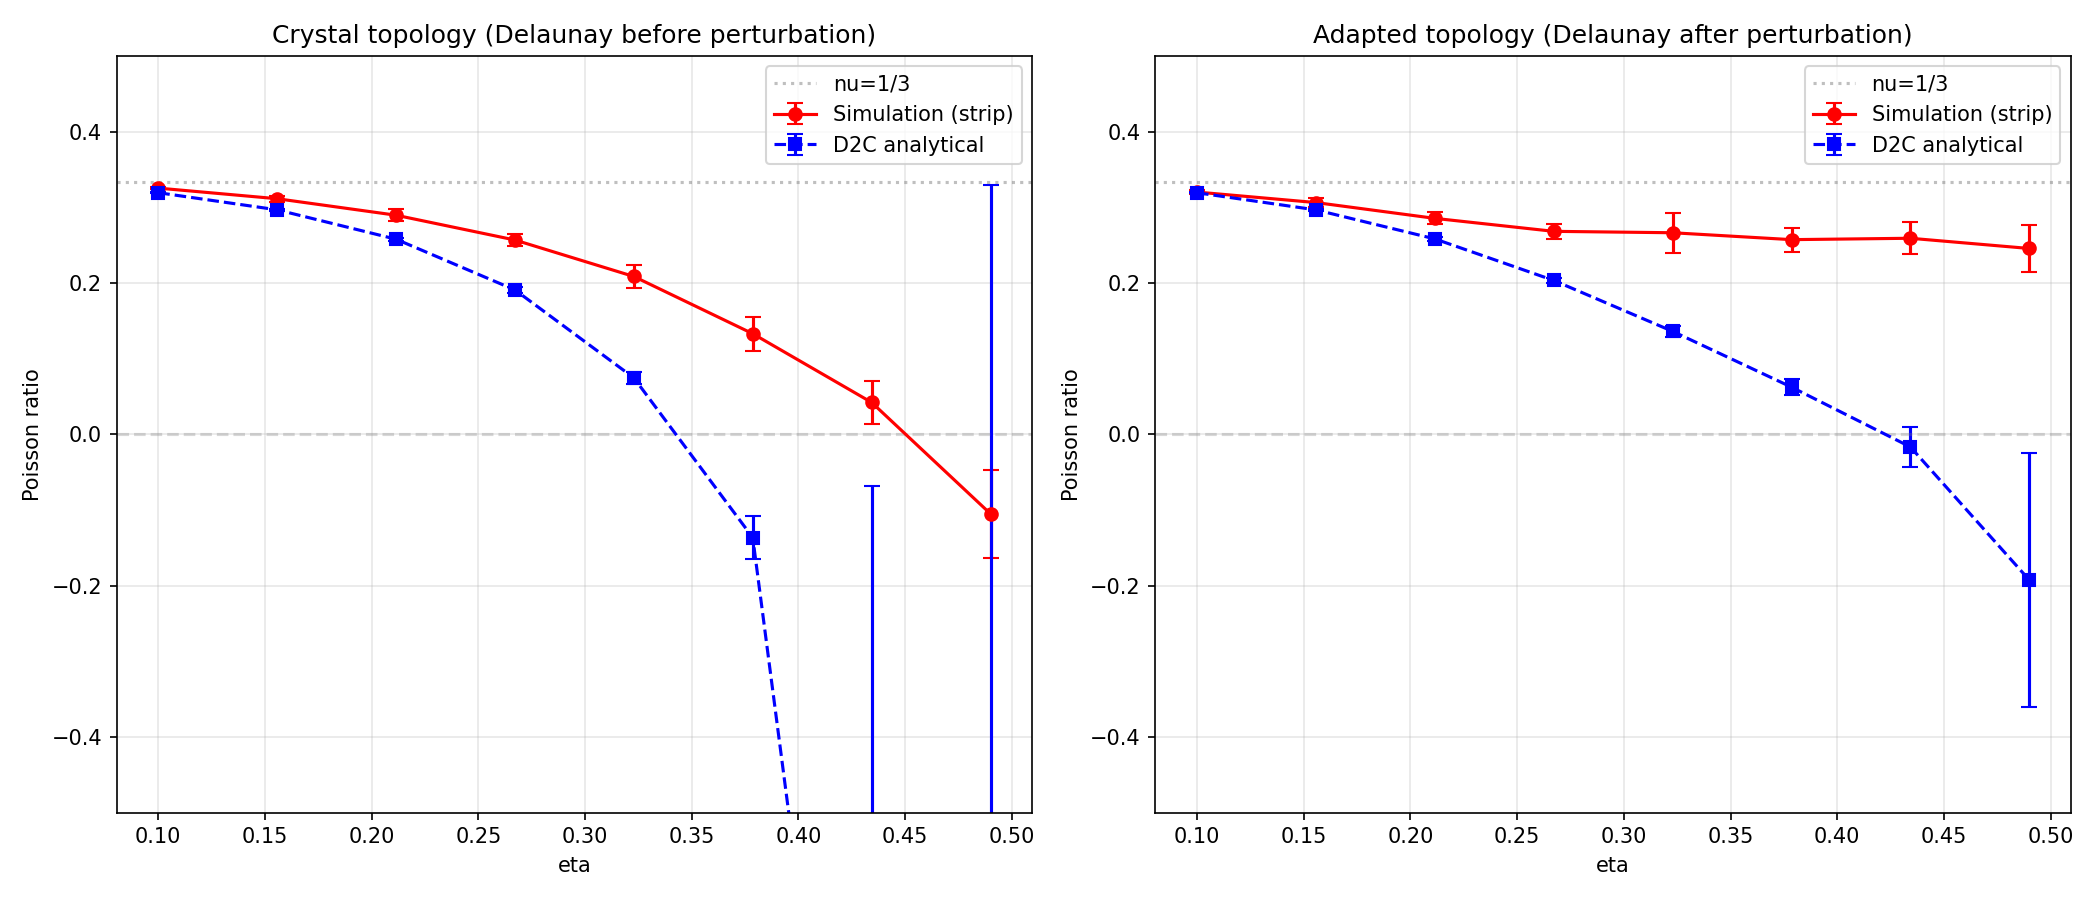
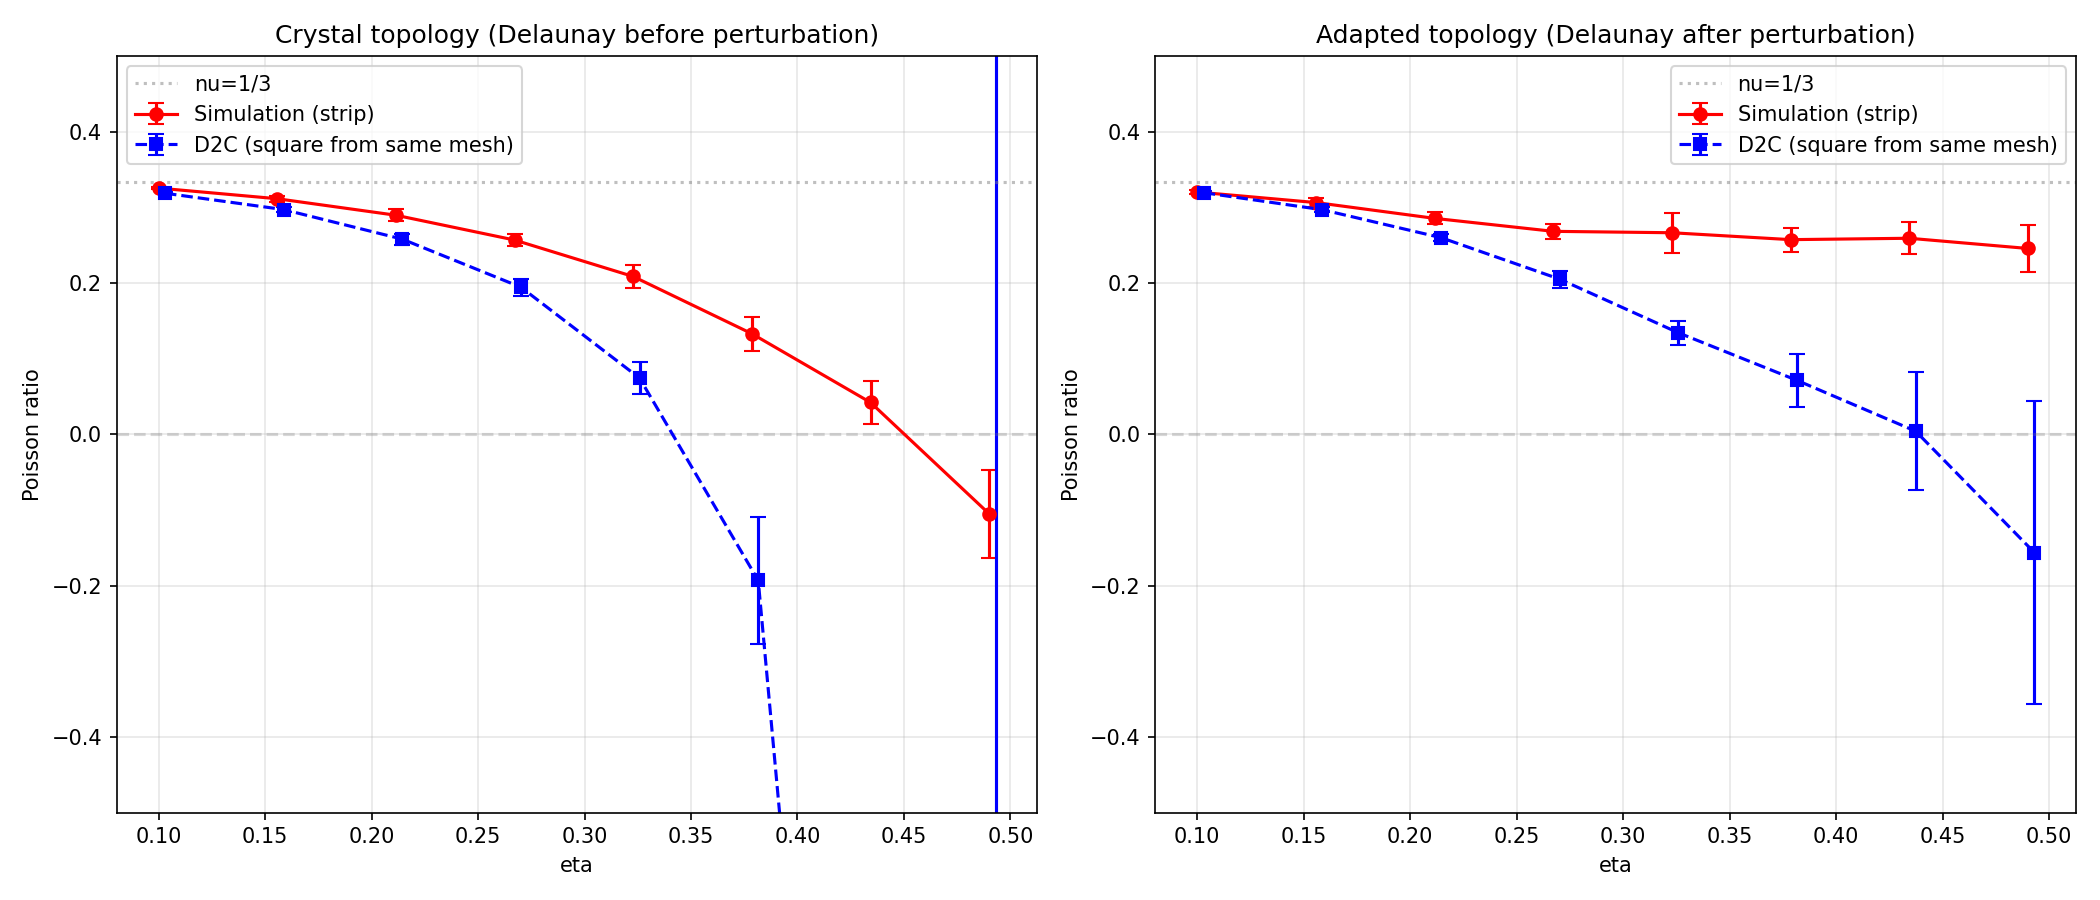
Run D2C on square sub-region of same strip used by simulation
Now both simulation and D2C use the identical mesh/vertices/perturbation.
D2C is computed on the [-6,6]^2 square cut from the strip center.
Results confirm the discrepancy is in the D2C theory, not sampling:
- Crystal eta=0.43: sim=+0.04, D2C=-1.90
- Adapted eta=0.49: sim=+0.25, D2C=-0.16

https://claude.ai/code/session_012BCNAgQJJpX3KMYRzgV7Uy

diff --git a/benchmarking/run_sim_vs_d2c.py b/benchmarking/run_sim_vs_d2c.py
@@ -1,10 +1,12 @@
 """
-Ground-truth comparison: spring network simulation vs D2C analytical calculation.
+Ground-truth comparison: spring simulation vs D2C analytical.
+
+Key change from v1: D2C is computed on a SQUARE sub-region cut from the
+exact same strip triangulation used by the simulation. This ensures
+identical mesh, vertices, edges, and perturbation pattern.
 
 Strip test: apply uniaxial strain, minimize elastic energy (L-BFGS-B),
 measure Poisson ratio from transverse contraction in the middle.
-
-Both pre-perturbation (crystal topology) and post-perturbation (adapted topology).
 """
 import sys, os, time
 sys.path.insert(0, os.path.join(os.path.dirname(__file__), '..'))
@@ -16,6 +18,7 @@ import matplotlib
 matplotlib.use('Agg')
 import matplotlib.pyplot as plt
 import Disc_2_Cont_optimized as D2C
+import copy
 
 
 # =========================================================================
@@ -74,6 +77,23 @@ def gen_perturbed_then_delaunay(size, eta):
     DM.all_simplices = DM.simplices
     DM.simplices = DM.simplices[np.where(goods)]
     return DM
+
+
+def extract_square_region(DT, half_side):
+    """Extract a square sub-region from a triangulation for D2C analysis.
+
+    Returns a new triangulation-like object containing only simplices
+    whose centroids fall within [-half_side, half_side]^2.
+    Same points array (shared vertices), just fewer simplices.
+    """
+    centroids = np.mean(DT.points[DT.simplices], axis=1)
+    in_square = ((np.abs(centroids[:,0]) <= half_side) &
+                 (np.abs(centroids[:,1]) <= half_side))
+
+    sub = copy.copy(DT)
+    sub.all_simplices = DT.simplices
+    sub.simplices = DT.simplices[np.where(in_square)]
+    return sub
 
 
 # =========================================================================
@@ -190,18 +210,17 @@ def simulate_poisson(DT, strain=0.01):
 # Main comparison
 # =========================================================================
 
-strip_size = (20, 6)    # long strip for simulation
-d2c_size   = (20, 20)   # square for D2C analytical
+strip_size = (20, 6)     # long strip for simulation
+square_half = 6.0        # D2C square = [-6,6]^2 cut from the strip center
 etas = np.linspace(0.1, 0.49, 8)
-n_sim = 10
-n_d2c = 20
+n_trials = 10
 strain = 0.01
 
 print("=" * 70)
-print("  Spring simulation vs D2C analytical: Poisson ratio comparison")
+print("  Spring simulation vs D2C (same mesh, square sub-region)")
 print("=" * 70)
-print(f"  Strip: {strip_size}, D2C square: {d2c_size}")
-print(f"  Trials: {n_sim} sim, {n_d2c} D2C, strain={strain}")
+print(f"  Strip: {strip_size},  D2C square: [{-square_half},{square_half}]^2")
+print(f"  Trials: {n_trials}, strain={strain}")
 print()
 
 results = {k: {e: [] for e in etas}
@@ -212,31 +231,26 @@ t_total = time.time()
 for eta in etas:
     t0 = time.time()
 
-    # --- Simulation ---
-    for trial in range(n_sim):
+    for trial in range(n_trials):
         seed = 1000*trial + int(eta*1000)
 
+        # --- Crystal topology ---
         np.random.seed(seed)
         DT = gen_crystal_then_perturb(strip_size, eta)
         results['sim_crystal'][eta].append(simulate_poisson(DT, strain))
 
+        sub = extract_square_region(DT, square_half)
+        D2C.analyze_elastic_struct(sub)
+        results['d2c_crystal'][eta].append(sub.PoissonsRatio)
+
+        # --- Adapted topology ---
         np.random.seed(seed)
         DT = gen_perturbed_then_delaunay(strip_size, eta)
         results['sim_adapted'][eta].append(simulate_poisson(DT, strain))
 
-    # --- D2C analytical ---
-    for trial in range(n_d2c):
-        seed = 2000*trial + int(eta*1000)
-
-        np.random.seed(seed)
-        DT = gen_crystal_then_perturb(d2c_size, eta)
-        D2C.analyze_elastic_struct(DT)
-        results['d2c_crystal'][eta].append(DT.PoissonsRatio)
-
-        np.random.seed(seed)
-        DT = gen_perturbed_then_delaunay(d2c_size, eta)
-        D2C.analyze_elastic_struct(DT)
-        results['d2c_adapted'][eta].append(DT.PoissonsRatio)
+        sub = extract_square_region(DT, square_half)
+        D2C.analyze_elastic_struct(sub)
+        results['d2c_adapted'][eta].append(sub.PoissonsRatio)
 
     sc = np.mean(results['sim_crystal'][eta])
     sa = np.mean(results['sim_adapted'][eta])
@@ -268,8 +282,8 @@ for ax, label, sk, dk in [
 
     ax.errorbar(eta_arr, sim_mean, yerr=sim_std, fmt='o-', color='red',
                 capsize=4, label='Simulation (strip)')
-    ax.errorbar(eta_arr, d2c_mean, yerr=d2c_std, fmt='s--', color='blue',
-                capsize=4, label='D2C analytical')
+    ax.errorbar(eta_arr + 0.003, d2c_mean, yerr=d2c_std, fmt='s--', color='blue',
+                capsize=4, label='D2C (square from same mesh)')
     ax.set_xlabel('eta')
     ax.set_ylabel('Poisson ratio')
     ax.set_title(label)
